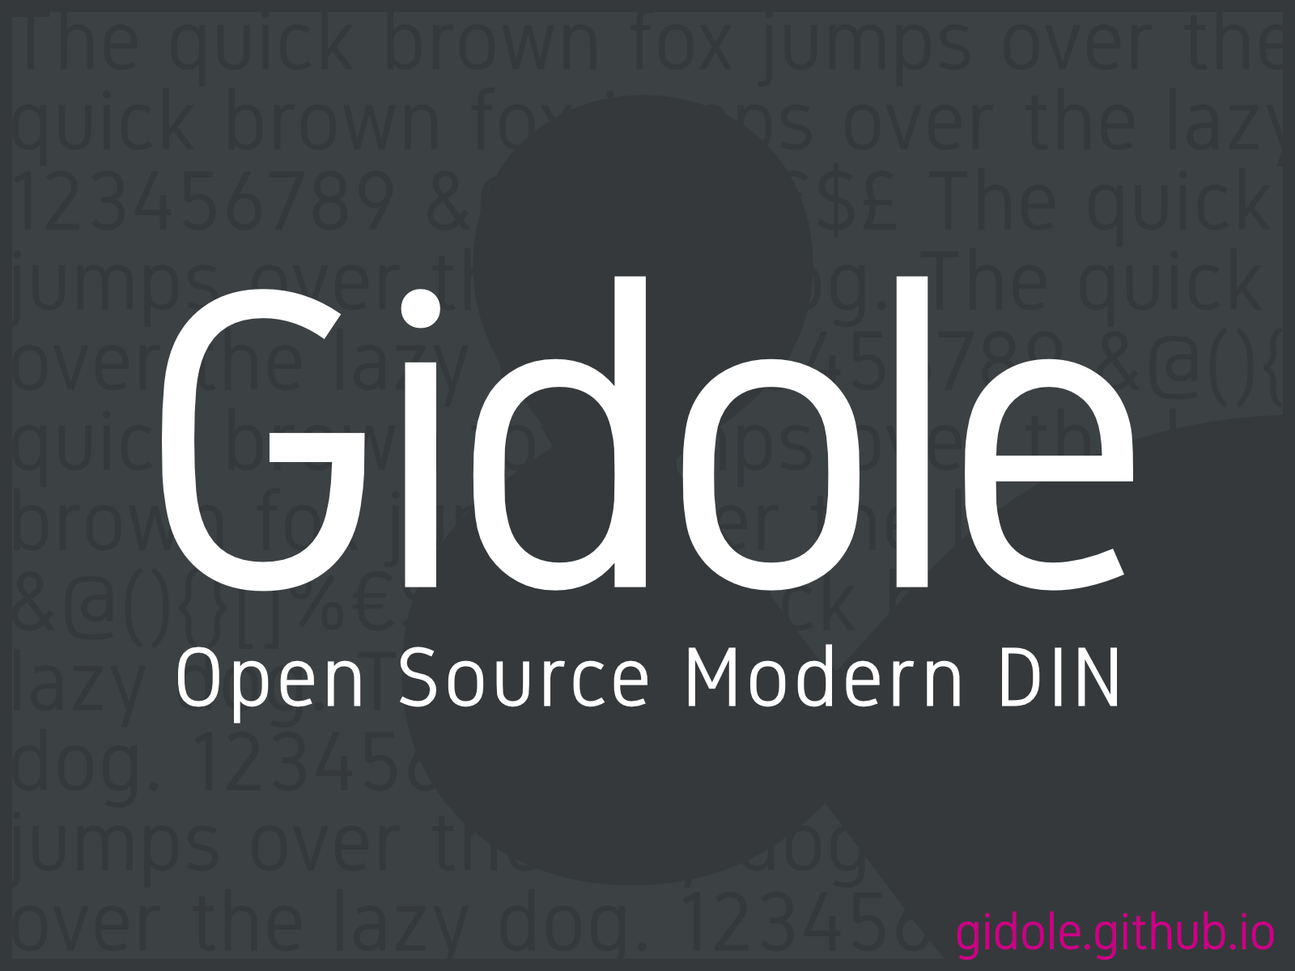
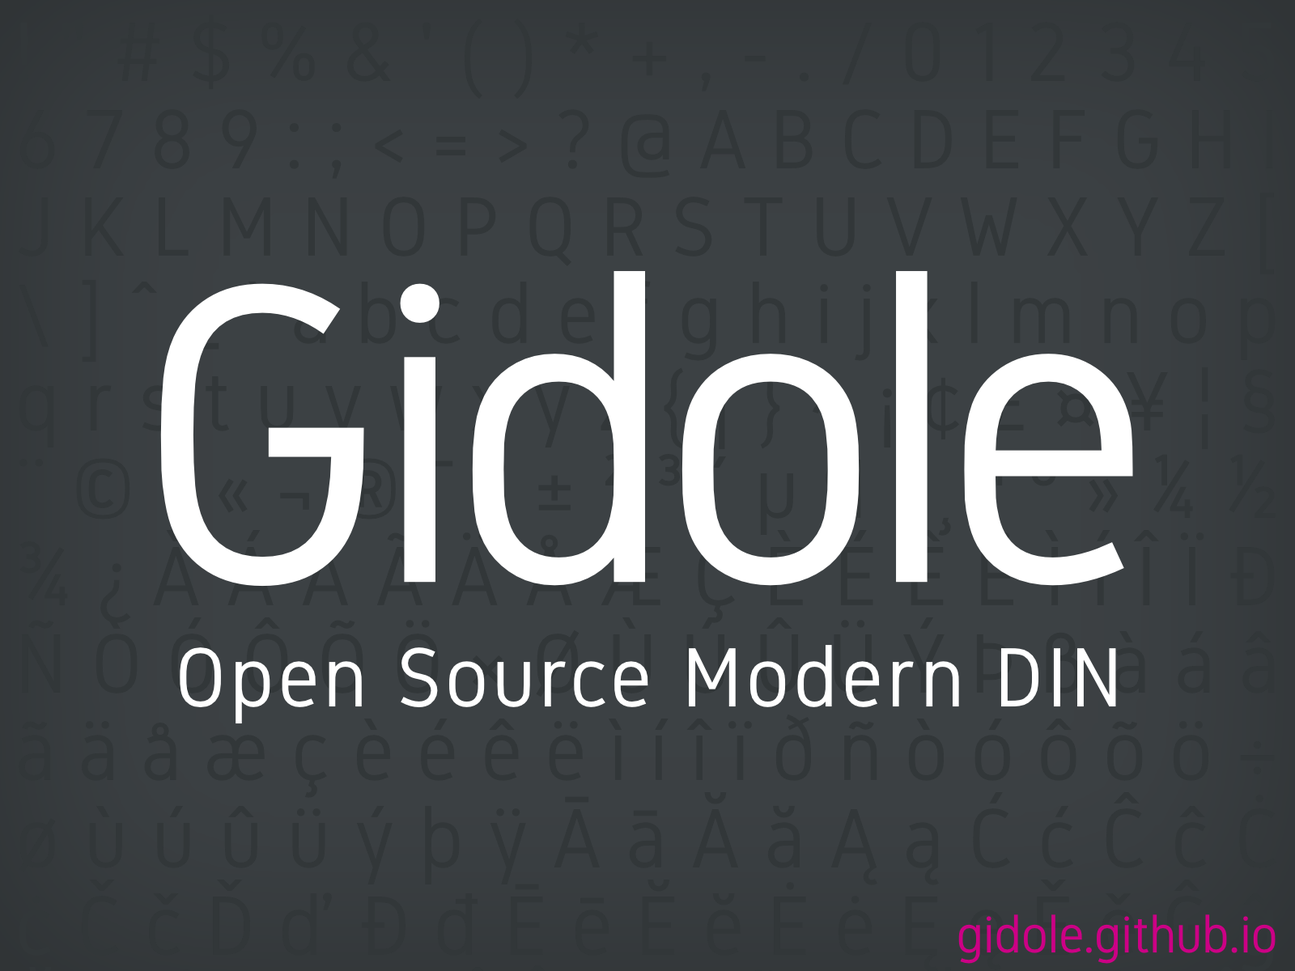
link to pdf, less pink

diff --git a/css/main.min.css b/css/main.min.css
@@ -1,1 +1,1 @@
-html{font-family:sans-serif;-ms-text-size-adjust:100%;-webkit-text-size-adjust:100%}body{margin:0}article,aside,details,figcaption,figure,footer,header,hgroup,main,menu,nav,section,summary{display:block}audio,canvas,progress,video{display:inline-block;vertical-align:baseline}audio:not([controls]){display:none;height:0}[hidden],template{display:none}a{background-color:transparent}a:active,a:hover{outline:0}abbr[title]{border-bottom:1px dotted}b,strong{font-weight:700}dfn{font-style:italic}h1{font-size:2em;margin:.67em 0}mark{background:#ff0;color:#000}small{font-size:80%}sub,sup{font-size:75%;line-height:0;position:relative;vertical-align:baseline}sup{top:-.5em}sub{bottom:-.25em}img{border:0}svg:not(:root){overflow:hidden}figure{margin:1em 40px}hr{box-sizing:content-box;height:0}pre{overflow:auto}code,kbd,pre,samp{font-family:monospace,monospace;font-size:1em}button,input,optgroup,select,textarea{color:inherit;font:inherit;margin:0}button{overflow:visible}button,select{text-transform:none}fieldset{border:1px solid silver;margin:0 2px;padding:.35em .625em .75em}legend{border:0;padding:0}textarea{overflow:auto}optgroup{font-weight:700}table{border-collapse:collapse;border-spacing:0}td,th{padding:0}audio,canvas,iframe,img,svg,video{vertical-align:middle}h1,h2,h3,h4,h5,h6{font-weight:400}::-moz-selection{background:hsl(321,100%,40%);text-shadow:none}::selection{background:hsl(321,100%,40%);text-shadow:none}.inverted ::-moz-selection{background:hsl(321,100%,70%);color:black}.inverted ::selection{background:hsl(321,100%,70%);color:black}.browserupgrade{margin:0;background:red;color:white;padding:1em;width:100%;text-align:center;display:block;pointer-events:all;box-sizing:border-box}::-webkit-scrollbar{display:none}@font-face{font-family:'gidole2regular';src:url('/fonts/Gidole2-Regular.woff2') format('woff2'),url('/fonts/Gidole2-Regular.woff') format('woff'),url('/fonts/Gidole2-Regular.ttf') format('truetype');font-weight:normal;font-style:normal}@font-face{font-family:'gidolemono';src:url('/fonts/Gidole-Mono.woff2') format('woff2'),url('/fonts/Gidole-Mono.woff') format('woff'),url('/fonts/Gidole-Mono.ttf') format('truetype');font-weight:normal;font-style:normal}html{font-family:'gidole2regular';color:white;background-color:hsl(201,6%,25%);font-size:100%}.inverted,.inverted a{color:hsl(201,6%,25%);letter-spacing:.02em}.inverted h2{letter-spacing:-0.03em}svg{fill:white}body{width:100%;font-size:5.4vw;line-height:1.5em;letter-spacing:.03em;height:5000px;pointer-events:none}h1{font-size:6.5em;margin:.4em 0 .2em;animation:fadein;animation-duration:1s}h2{font-size:2.62em;margin-bottom:-0.1em;letter-spacing:-0.02em;margin-left:-0.05em;line-height:1em;margin-top:.2em}nav,body>div{opacity:0;filter:alpha(opacity=0);position:fixed;top:0;bottom:0;left:0;right:0;display:-webkit-box;display:-webkit-flex;display:-ms-flexbox;display:flex;-webkit-box-align:center;-webkit-align-items:center;-ms-flex-align:center;align-items:center;-webkit-align-content:center;-ms-flex-line-pack:center;align-content:center;z-index:100}.behind{z-index:5}.farbehind{z-index:1}.forceforward,.ff{-webkit-transform:translateZ(900px);transform:translateZ(900px);-webkit-transform-style:preserve-3d;transform-style:preserve-3d}div[ffff="1"]{z-index:100}div[fff="1"]{z-index:50}.fff,div[fff="2"]{-webkit-transform:translateZ(950px);transform:translateZ(950px);-webkit-transform-style:preserve-3d;transform-style:preserve-3d}.ffff{-webkit-transform:translateZ(1000px);transform:translateZ(1000px);-webkit-transform-style:preserve-3d;transform-style:preserve-3d}.furtherbehind{-webkit-transform:translateZ(-1000px);transform:translateZ(-1000px);-webkit-transform-style:preserve-3d;transform-style:preserve-3d}.furtherbehind{z-index:1}.nowrap{white-space:nowrap}a{color:white;text-decoration:none}a,#shareTitle{background:-webkit-linear-gradient(top,hsla(321,100%,40%,0) 74.9%,hsl(321,100%,40%) 75%,hsl(321,100%,40%) 88%,hsla(321,100%,40%,0) 88.1%);background:linear-gradient(to bottom,hsla(321,100%,40%,0) 74.9%,hsl(321,100%,40%) 75%,hsl(321,100%,40%) 88%,hsla(321,100%,40%,0) 88.1%);-webkit-transition:background .2s ease;transition:background .2s ease}a:hover,#shareTitle:hover{background:-webkit-linear-gradient(top,hsla(321,100%,40%,0) 6.9%,hsl(321,100%,40%) 7%,hsl(321,100%,40%) 88%,hsla(321,100%,40%,0) 88.1%);background:linear-gradient(to bottom,hsla(321,100%,40%,0) 6.9%,hsl(321,100%,40%) 7%,hsl(321,100%,40%) 88%,hsla(321,100%,40%,0) 88.1%)}.inverted a,.scrollToLink{background:-webkit-linear-gradient(top,hsla(321,100%,40%,0) 74.9%,hsl(321,100%,70%) 75%,hsl(321,100%,70%) 88%,hsla(321,100%,40%,0) 88.1%);background:linear-gradient(to bottom,hsla(321,100%,40%,0) 74.9%,hsl(321,100%,70%) 75%,hsl(321,100%,70%) 88%,hsla(321,100%,40%,0) 88.1%);-webkit-transition:background .2s ease;transition:background .2s ease}.inverted a:hover,.scrollToLink:hover{background:-webkit-linear-gradient(top,hsla(321,100%,40%,0) 6.9%,hsl(321,100%,70%) 7%,hsl(321,100%,70%) 88%,hsla(321,100%,40%,0) 88.1%);background:linear-gradient(to bottom,hsla(321,100%,40%,0) 6.9%,hsl(321,100%,70%) 7%,hsl(321,100%,70%) 88%,hsla(321,100%,40%,0) 88.1%)}.spaced{letter-spacing:.2em;margin-right:-.2em}.wrap{width:100%;max-width:1280px;max-width:80rem;margin:0 auto;padding:0 10%;box-sizing:border-box}svg{width:100%;margin:0 auto}#uno{-webkit-box-orient:vertical;-webkit-box-direction:normal;-webkit-flex-direction:column;-ms-flex-direction:column;flex-direction:column;-webkit-box-pack:center;-webkit-justify-content:center;-ms-flex-pack:center;justify-content:center;text-align:center;padding:0 40px;box-sizing:border-box}#navibuttons{opacity:1;-webkit-box-align:flex-end;-webkit-align-items:flex-end;-ms-flex-align:flex-end;align-items:flex-end;pointer-events:none}#navibuttons>div{margin:0 auto;background-color:hsl(201,6%,30%);box-shadow:0 0 4vw rgba(0,0,0,0.2);border-top-left-radius:.8em;border-top-right-radius:.8em;padding:0 .5em}#navibuttons span{display:inline-block;pointer-events:all;cursor:pointer;padding:0 .1em}#navibuttons span:active{color:hsl(321,100%,40%)}.counter{opacity:1;filter:alpha(opacity=100);font-size:.62em;line-height:1.1em;pointer-events:none}.counter>div{position:absolute;-webkit-transform:translateZ(1002px);transform:translateZ(1002px);-webkit-transform-style:preserve-3d;transform-style:preserve-3d;bottom:20px;right:2.45em;z-index:90}.counter .total{right:1em}.counter .eight{right:2.44em}.counter .seven{right:2.38em}.counter .nine{right:2.40em}nav a{margin:0 auto}.skrollable-between #shareTitle,.skrollable-between .scrollToLink{cursor:pointer}.skrollable-between{pointer-events:all}nav{-webkit-box-orient:horizontal;-webkit-box-direction:normal;-webkit-flex-direction:row;-ms-flex-direction:row;flex-direction:row;-webkit-justify-content:space-around;-ms-flex-pack:distribute;justify-content:space-around}nav>div{text-align:center;position:relative}#shareSmile{position:absolute;left:0;right:0;-webkit-transform:rotate(90deg) translateX(0.05em);-ms-transform:rotate(90deg) translateX(0.05em);transform:rotate(90deg) translateX(0.05em);-webkit-transition:all 1s ease;transition:all 1s ease}#shareSmile.invisible{-webkit-transform:rotate(0) translateX(0.05em);-ms-transform:rotate(0) translateX(0.05em);transform:rotate(0) translateX(0.05em)}.links{position:absolute;text-align:right;top:0;right:0;-webkit-transform:translate3d(0,1em,0);transform:translate3d(0,1em,0);-webkit-transition:.3s ease;transition:.3s ease;opacity:0;filter:alpha(opacity=0);visibility:hidden}.visible .links{-webkit-transform:translate3d(0,1.5em,0);transform:translate3d(0,1.5em,0);opacity:1;filter:alpha(opacity=100);visibility:visible}#mapintro p{z-index:10}#world{font-family:'gidolemono';font-size:.5em;line-height:.9em;height:500%;top:-200%;overflow:hidden;left:-10000px;right:-10000px;color:hsl(201,6%,20%)}#worldcenter{position:relative;margin:0 auto;white-space:nowrap}#dot{color:hsl(321,100%,40%)}#duo{height:100%}.goo path,.gooload path{fill:hsla(321,100%,40%,0);stroke:hsla(321,100%,40%,0.3);stroke-width:6}.gooload path{stroke-width:7;stroke:hsla(321,100%,40%,0.75)}#ampstroke path{fill:none;stroke-width:2em;stroke:white}#stroke{z-index:3}#fivehundred{z-index:4}#ampfill path{fill:white;stroke-width:2em;stroke:white}#starwars{display:block;color:hsla(201,6%,15%,0.1);overflow:hidden;-webkit-transform:perspective(300px) rotateX(25deg);transform:perspective(300px) rotateX(25deg);z-index:1;left:-150%;right:-150%;text-align:center;padding:0;font-size:2.5vw}#starwars:after{position:fixed;content:' ';left:0;right:0;top:0;bottom:0;background:-moz-linear-gradient(top,rgba(255,255,255,1) 0,rgba(255,255,255,0) 100%);background:-webkit-gradient(linear,left top,left bottom,color-stop(0,rgba(255,255,255,1)),color-stop(100%,rgba(255,255,255,0)));background:-webkit-linear-gradient(top,rgba(255,255,255,1) 0,rgba(255,255,255,0) 100%);background:-o-linear-gradient(top,rgba(255,255,255,1) 0,rgba(255,255,255,0) 100%);background:-ms-linear-gradient(top,rgba(255,255,255,1) 0,rgba(255,255,255,0) 100%);background:linear-gradient(to bottom,rgba(255,255,255,1) 0,rgba(255,255,255,0) 100%);filter:progid:DXImageTransform.Microsoft.gradient(startColorstr='#ffffff',endColorstr='#00ffffff',GradientType=0);pointer-events:none}#starwarscontent>div{z-index:1;line-height:.9em}#starwars .line0{font-size:8em}#starwars .line1{font-size:6.1em}#starwars .line2{font-size:4.2em}#starwars .line3{font-size:5em}#starwars .line4{font-size:9.6em}#starwars .line5{font-size:4.5em}#starwars .line6{font-size:8.5em}#starwars .line7{font-size:5.67em}#starwars .line8{font-size:3.38em}#starwars .line9{font-size:5.5em}#whitefade{background-color:white}#loadfade{transition-duration:.5s;transition-delay:.5s;-webkit-transition-timing-function:cubic-bezier(1.000,0.000,1.000,1.000);-moz-transition-timing-function:cubic-bezier(1.000,0.000,1.000,1.000);-o-transition-timing-function:cubic-bezier(1.000,0.000,1.000,1.000);transition-timing-function:cubic-bezier(1.000,0.000,1.000,1.000);opacity:1;pointer-events:none;background-color:rgba(255,255,255,1);-webkit-box-shadow:inset 0 0 20% 0 rgba(0,0,0,0);-moz-box-shadow:inset 0 0 20% 0 rgba(0,0,0,0);box-shadow:inset 0 0 20% 0 rgba(0,0,0,0)}#loadfade.loaded{background-color:rgba(255,255,255,0);-webkit-box-shadow:inset 0 0 20vw 0 rgba(0,0,0,0.1);-moz-box-shadow:inset 0 0 20vw 0 rgba(0,0,0,0.1);box-shadow:inset 0 0 20vw 0 rgba(0,0,0,0.1)}#disc{bottom:50%;font-size:.6em;color:hsla(0,0,100%,0.3);line-height:1.5em}@-webkit-keyframes fadein{from{opacity:0;filter:alpha(opacity=0)}to{opacity:1;filter:alpha(opacity=100)}}@keyframes fadein{from{opacity:0;filter:alpha(opacity=0)}to{opacity:1;filter:alpha(opacity=100)}}@-webkit-keyframes skubin{from{margin-bottom:-2em}to{margin-bottom:0}}@keyframes skubin{from{margin-bottom:-2em}to{margin-bottom:0}}.hidden{display:none!important;visibility:hidden}.visuallyhidden{border:0;clip:rect(0 0 0 0);height:1px;margin:-1px;overflow:hidden;padding:0;position:absolute;width:1px}.invisible{visibility:hidden}@media only screen and (min-width:50rem){body{font-size:2.6em}#kbhint{visibility:visible!important}}@media print{*,*:before,*:after{background:transparent!important;color:#000!important;box-shadow:none!important;text-shadow:none!important}a,a:visited{text-decoration:underline}a[href]:after{content:" (" attr(href) ")"}abbr[title]:after{content:" (" attr(title) ")"}a[href^="#"]:after,a[href^="javascript:"]:after{content:""}pre,blockquote{border:1px solid #999;page-break-inside:avoid}thead{display:table-header-group}tr,img{page-break-inside:avoid}img{max-width:100%!important}p,h2,h3{orphans:3;widows:3}h2,h3{page-break-after:avoid}}
+html{font-family:sans-serif;-ms-text-size-adjust:100%;-webkit-text-size-adjust:100%}body{margin:0}article,aside,details,figcaption,figure,footer,header,hgroup,main,menu,nav,section,summary{display:block}audio,canvas,progress,video{display:inline-block;vertical-align:baseline}audio:not([controls]){display:none;height:0}[hidden],template{display:none}a{background-color:transparent}a:active,a:hover{outline:0}abbr[title]{border-bottom:1px dotted}b,strong{font-weight:700}dfn{font-style:italic}h1{font-size:2em;margin:.67em 0}mark{background:#ff0;color:#000}small{font-size:80%}sub,sup{font-size:75%;line-height:0;position:relative;vertical-align:baseline}sup{top:-.5em}sub{bottom:-.25em}img{border:0}svg:not(:root){overflow:hidden}figure{margin:1em 40px}hr{box-sizing:content-box;height:0}pre{overflow:auto}code,kbd,pre,samp{font-family:monospace,monospace;font-size:1em}button,input,optgroup,select,textarea{color:inherit;font:inherit;margin:0}button{overflow:visible}button,select{text-transform:none}fieldset{border:1px solid silver;margin:0 2px;padding:.35em .625em .75em}legend{border:0;padding:0}textarea{overflow:auto}optgroup{font-weight:700}table{border-collapse:collapse;border-spacing:0}td,th{padding:0}audio,canvas,iframe,img,svg,video{vertical-align:middle}h1,h2,h3,h4,h5,h6{font-weight:400}::-moz-selection{background:hsl(321,100%,40%);text-shadow:none}::selection{background:hsl(321,100%,40%);text-shadow:none}.inverted ::-moz-selection{background:hsl(321,100%,70%);color:black}.inverted ::selection{background:hsl(321,100%,70%);color:black}.browserupgrade{margin:0;background:red;color:white;padding:1em;width:100%;text-align:center;display:block;pointer-events:all;box-sizing:border-box}::-webkit-scrollbar{display:none}@font-face{font-family:'gidole2regular';src:url('/fonts/Gidole2-Regular.woff2') format('woff2'),url('/fonts/Gidole2-Regular.woff') format('woff'),url('/fonts/Gidole2-Regular.ttf') format('truetype');font-weight:normal;font-style:normal}@font-face{font-family:'gidolemono';src:url('/fonts/Gidole-Mono.woff2') format('woff2'),url('/fonts/Gidole-Mono.woff') format('woff'),url('/fonts/Gidole-Mono.ttf') format('truetype');font-weight:normal;font-style:normal}html{font-family:'gidole2regular';color:white;background-color:hsl(201,6%,25%);font-size:100%}.inverted,.inverted a{color:hsl(201,6%,25%);letter-spacing:.02em}.inverted h2{letter-spacing:-0.03em}svg{fill:white}body{width:100%;font-size:5.4vw;line-height:1.5em;letter-spacing:.03em;height:5000px;pointer-events:none}h1{font-size:6.5em;margin:.4em 0 .2em;animation:fadein;animation-duration:1s}h2{font-size:2.62em;margin-bottom:-0.1em;letter-spacing:-0.02em;margin-left:-0.05em;line-height:1em;margin-top:.2em}nav,body>div{opacity:0;filter:alpha(opacity=0);position:fixed;top:0;bottom:0;left:0;right:0;display:-webkit-box;display:-webkit-flex;display:-ms-flexbox;display:flex;-webkit-box-align:center;-webkit-align-items:center;-ms-flex-align:center;align-items:center;-webkit-align-content:center;-ms-flex-line-pack:center;align-content:center;z-index:100}.behind{z-index:5}.farbehind{z-index:1}.forceforward,.ff{-webkit-transform:translateZ(900px);transform:translateZ(900px);-webkit-transform-style:preserve-3d;transform-style:preserve-3d}div[ffff="1"]{z-index:100}div[fff="1"]{z-index:50}.fff,div[fff="2"]{-webkit-transform:translateZ(950px);transform:translateZ(950px);-webkit-transform-style:preserve-3d;transform-style:preserve-3d}.ffff{-webkit-transform:translateZ(1000px);transform:translateZ(1000px);-webkit-transform-style:preserve-3d;transform-style:preserve-3d}.furtherbehind{-webkit-transform:translateZ(-1000px);transform:translateZ(-1000px);-webkit-transform-style:preserve-3d;transform-style:preserve-3d}.furtherbehind{z-index:1}.nowrap{white-space:nowrap}a{color:white;text-decoration:none}a,#shareTitle{background:-webkit-linear-gradient(top,hsla(321,100%,40%,0) 74.9%,hsl(321,100%,40%) 75%,hsl(321,100%,40%) 88%,hsla(321,100%,40%,0) 88.1%);background:linear-gradient(to bottom,hsla(321,100%,40%,0) 74.9%,hsl(321,100%,40%) 75%,hsl(321,100%,40%) 88%,hsla(321,100%,40%,0) 88.1%);-webkit-transition:background .2s ease;transition:background .2s ease}a:hover,#shareTitle:hover{background:-webkit-linear-gradient(top,hsla(321,100%,40%,0) 6.9%,hsl(321,100%,40%) 7%,hsl(321,100%,40%) 88%,hsla(321,100%,40%,0) 88.1%);background:linear-gradient(to bottom,hsla(321,100%,40%,0) 6.9%,hsl(321,100%,40%) 7%,hsl(321,100%,40%) 88%,hsla(321,100%,40%,0) 88.1%)}.inverted a,.scrollToLink{background:-webkit-linear-gradient(top,hsla(321,100%,40%,0) 74.9%,hsl(321,100%,70%) 75%,hsl(321,100%,70%) 88%,hsla(321,100%,40%,0) 88.1%);background:linear-gradient(to bottom,hsla(321,100%,40%,0) 74.9%,hsl(321,100%,70%) 75%,hsl(321,100%,70%) 88%,hsla(321,100%,40%,0) 88.1%);-webkit-transition:background .2s ease;transition:background .2s ease}.inverted a:hover,.scrollToLink:hover{background:-webkit-linear-gradient(top,hsla(321,100%,40%,0) 6.9%,hsl(321,100%,70%) 7%,hsl(321,100%,70%) 88%,hsla(321,100%,40%,0) 88.1%);background:linear-gradient(to bottom,hsla(321,100%,40%,0) 6.9%,hsl(321,100%,70%) 7%,hsl(321,100%,70%) 88%,hsla(321,100%,40%,0) 88.1%)}.spaced{letter-spacing:.2em;margin-right:-.2em}.wrap{width:100%;max-width:1280px;max-width:80rem;margin:0 auto;padding:0 10%;box-sizing:border-box}svg{width:100%;margin:0 auto}#uno{-webkit-box-orient:vertical;-webkit-box-direction:normal;-webkit-flex-direction:column;-ms-flex-direction:column;flex-direction:column;-webkit-box-pack:center;-webkit-justify-content:center;-ms-flex-pack:center;justify-content:center;text-align:center;padding:0 40px;box-sizing:border-box}#navibuttons{opacity:1;-webkit-box-align:flex-end;-webkit-align-items:flex-end;-ms-flex-align:flex-end;align-items:flex-end;pointer-events:none}#navibuttons>div{margin:0 auto;background-color:hsl(201,6%,30%);box-shadow:0 0 4vw rgba(0,0,0,0.2);border-top-left-radius:.8em;border-top-right-radius:.8em;padding:0 .5em}#navibuttons span{display:inline-block;pointer-events:all;cursor:pointer;padding:0 .1em}#navibuttons span:active{color:hsl(321,100%,40%)}.counter{opacity:1;filter:alpha(opacity=100);font-size:.62em;line-height:1.1em;pointer-events:none}.counter>div{position:absolute;-webkit-transform:translateZ(1002px);transform:translateZ(1002px);-webkit-transform-style:preserve-3d;transform-style:preserve-3d;bottom:20px;right:2.45em;z-index:90}.counter .total{right:1em}.counter .eight{right:2.44em}.counter .seven{right:2.38em}.counter .nine{right:2.40em}nav a{margin:0 auto}.skrollable-between #shareTitle,.skrollable-between .scrollToLink{cursor:pointer}.skrollable-between{pointer-events:all}nav{-webkit-box-orient:horizontal;-webkit-box-direction:normal;-webkit-flex-direction:row;-ms-flex-direction:row;flex-direction:row;-webkit-justify-content:space-around;-ms-flex-pack:distribute;justify-content:space-around}nav>div{text-align:center;position:relative}#pdf{display:none}}#shareSmile{position:absolute;left:0;right:0;-webkit-transform:rotate(90deg) translateX(0.05em);-ms-transform:rotate(90deg) translateX(0.05em);transform:rotate(90deg) translateX(0.05em);-webkit-transition:all 1s ease;transition:all 1s ease}#shareSmile.invisible{-webkit-transform:rotate(0) translateX(0.05em);-ms-transform:rotate(0) translateX(0.05em);transform:rotate(0) translateX(0.05em)}.links{position:absolute;text-align:right;top:0;right:0;-webkit-transform:translate3d(0,1em,0);transform:translate3d(0,1em,0);-webkit-transition:.3s ease;transition:.3s ease;opacity:0;filter:alpha(opacity=0);visibility:hidden}.visible .links{-webkit-transform:translate3d(0,1.5em,0);transform:translate3d(0,1.5em,0);opacity:1;filter:alpha(opacity=100);visibility:visible}#mapintro p{z-index:10}#world{font-family:'gidolemono';font-size:.5em;line-height:.9em;height:500%;top:-200%;overflow:hidden;left:-10000px;right:-10000px;color:hsl(201,6%,20%)}#worldcenter{position:relative;margin:0 auto;white-space:nowrap}#dot{color:hsla(201,6%,50%,0.5)}#duo{height:100%}.goo path,.gooload path{fill:none;stroke:hsla(201,6%,50%,0.5);stroke-width:6}.gooload path{stroke-width:7;stroke:hsla(201,6%,50%,0.9)}#ampstroke path{fill:none;stroke-width:2em;stroke:white}#stroke{z-index:3}#fivehundred{z-index:4}#ampfill path{fill:white;stroke-width:2em;stroke:white}#starwars{display:block;color:hsla(201,6%,15%,0.1);overflow:hidden;-webkit-transform:perspective(300px) rotateX(25deg);transform:perspective(300px) rotateX(25deg);z-index:1;left:-150%;right:-150%;text-align:center;padding:0;font-size:2.5vw}#starwars:after{position:fixed;content:' ';left:0;right:0;top:0;bottom:0;background:-moz-linear-gradient(top,rgba(255,255,255,1) 0,rgba(255,255,255,0) 100%);background:-webkit-gradient(linear,left top,left bottom,color-stop(0,rgba(255,255,255,1)),color-stop(100%,rgba(255,255,255,0)));background:-webkit-linear-gradient(top,rgba(255,255,255,1) 0,rgba(255,255,255,0) 100%);background:-o-linear-gradient(top,rgba(255,255,255,1) 0,rgba(255,255,255,0) 100%);background:-ms-linear-gradient(top,rgba(255,255,255,1) 0,rgba(255,255,255,0) 100%);background:linear-gradient(to bottom,rgba(255,255,255,1) 0,rgba(255,255,255,0) 100%);filter:progid:DXImageTransform.Microsoft.gradient(startColorstr='#ffffff',endColorstr='#00ffffff',GradientType=0);pointer-events:none}#starwarscontent>div{z-index:1;line-height:.9em}#starwars .line0{font-size:8em}#starwars .line1{font-size:6.1em}#starwars .line2{font-size:4.2em}#starwars .line3{font-size:5em}#starwars .line4{font-size:9.6em}#starwars .line5{font-size:4.5em}#starwars .line6{font-size:8.5em}#starwars .line7{font-size:5.67em}#starwars .line8{font-size:3.38em}#starwars .line9{font-size:5.5em}#whitefade{background-color:white}#loadfade{transition-duration:.5s;transition-delay:.5s;-webkit-transition-timing-function:cubic-bezier(1.000,0.000,1.000,1.000);-moz-transition-timing-function:cubic-bezier(1.000,0.000,1.000,1.000);-o-transition-timing-function:cubic-bezier(1.000,0.000,1.000,1.000);transition-timing-function:cubic-bezier(1.000,0.000,1.000,1.000);opacity:1;pointer-events:none;background-color:rgba(255,255,255,1);-webkit-box-shadow:inset 0 0 20% 0 rgba(0,0,0,0);-moz-box-shadow:inset 0 0 20% 0 rgba(0,0,0,0);box-shadow:inset 0 0 20% 0 rgba(0,0,0,0)}#loadfade.loaded{background-color:rgba(255,255,255,0);-webkit-box-shadow:inset 0 0 20vw 0 rgba(0,0,0,0.1);-moz-box-shadow:inset 0 0 20vw 0 rgba(0,0,0,0.1);box-shadow:inset 0 0 20vw 0 rgba(0,0,0,0.1)}#disc{bottom:50%;font-size:.6em;color:hsla(0,0,100%,0.3);line-height:1.5em}@-webkit-keyframes fadein{from{opacity:0;filter:alpha(opacity=0)}to{opacity:1;filter:alpha(opacity=100)}}@keyframes fadein{from{opacity:0;filter:alpha(opacity=0)}to{opacity:1;filter:alpha(opacity=100)}}@-webkit-keyframes skubin{from{margin-bottom:-2em}to{margin-bottom:0}}@keyframes skubin{from{margin-bottom:-2em}to{margin-bottom:0}}.hidden{display:none!important;visibility:hidden}.visuallyhidden{border:0;clip:rect(0 0 0 0);height:1px;margin:-1px;overflow:hidden;padding:0;position:absolute;width:1px}.invisible{visibility:hidden}@media only screen and (min-width:50rem){#pdf{display:block}body{font-size:2.6em}#kbhint{visibility:visible!important}}@media print{*,*:before,*:after{background:transparent!important;color:#000!important;box-shadow:none!important;text-shadow:none!important}a,a:visited{text-decoration:underline}a[href]:after{content:" (" attr(href) ")"}abbr[title]:after{content:" (" attr(title) ")"}a[href^="#"]:after,a[href^="javascript:"]:after{content:""}pre,blockquote{border:1px solid #999;page-break-inside:avoid}thead{display:table-header-group}tr,img{page-break-inside:avoid}img{max-width:100%!important}p,h2,h3{orphans:3;widows:3}h2,h3{page-break-after:avoid}}

diff --git a/index.html b/index.html
@@ -69,12 +69,10 @@
     </div> <!-- UNO -->
 
 <!-- nav -->
-    <div class="wrap" id="disc" data-300="opacity[cubic]:0;" data-600="opacity[cubic]:1;" data-900="opacity[cubic]:0">
-      <p>Please note that this displays the upcomming revision of the typeface still being fine tuned. Follow @andreaslarsendk for updates and/or download the "old" version.</p>
-    </div>
     <nav class="wrap" data-300="opacity[cubic]:0;" data-600="opacity[cubic]:1;" data-900="opacity[cubic]:0">
         <div id="get"><a href="https://github.com/gidole/Gidole-Typefaces/blob/master/gidole.zip?raw=true">Download</a></div>
         <div id="github"><a href="http://github.com/gidole/Gidole-Typefaces" target="_blank">Github</a></div>
+      <div id="pdf"><a href="https://github.com/gidole/Gidole-Typefaces/blob/master/Resources/GidoleFont/ReadMe+TestPrint.pdf?raw=true" target="_blank">pdf</a></div>
         <div id="share"><span id="shareTitle">Share</span><span id="shareSmile" class="invisible">:&#8198;)</span>
           <div class="links">
             <a href="https://twitter.com/intent/tweet?url=http%3A%2F%2Fgidole.github.io%2F&text=Gidole%20%26%20Gidolinya%20Free%20Typefaces&original_referer=&via=andreaslarsendk&hashtags=gidole" target="_blank">Twitter</a><br>
@@ -272,7 +270,7 @@
     <div class="wrap forceforward inverted" data-7200="opacity[cubic]:0;" data-7600="opacity[cubic]:1">
       <div>
         <h2>The End</h2>
-        <p>Thanks for stopping by. Help me by reporting issues and ideas for <a href="http://github.com/gidole/Gidole-Typefaces/issues" target="_blank">font</a>/<a href="https://github.com/gidole/gidole.github.io/issues" target="_blank">website</a> and by spreading the word. <a href="https://twitter.com/intent/follow?screen_name=andreaslarsendk" target="_blank">Follow</a> me for updates.</p>
+        <p>Thanks for stopping by. Help me by reporting issues and ideas for <a href="http://github.com/gidole/Gidole-Typefaces/issues" target="_blank">font</a>/<a href="https://github.com/gidole/gidole.github.io/issues" target="_blank">website</a> and by spreading the word. <a href="https://twitter.com/intent/follow?screen_name=andreaslarsendk" target="_blank">Follow</a> me for updates. Please don't hesitate to contact me:)</p>
       </div>
     </div>
 

diff --git a/css/main.css b/css/main.css
@@ -270,6 +270,10 @@ nav > div {
   text-align: center;
   position: relative;
 }
+#pdf {
+  display: none;
+}
+}
 #shareSmile {
   position: absolute;
   left: 0;
@@ -325,19 +329,19 @@ nav > div {
   white-space: nowrap;
 }
 #dot {
-  color:hsl(321, 100%, 40%);
+  color:hsla(201, 6%, 50%, 0.5);
 }
 #duo {
   height: 100%;
 }
 .goo path, .gooload path {
-  fill: hsla(321, 100%, 40%, 0);
-  stroke: hsla(321, 100%, 40%, 0.3);
+  fill: none;
+  stroke: hsla(201, 6%, 50%, 0.5);
   stroke-width: 6;
 }
 .gooload path {
   stroke-width: 7;
-  stroke: hsla(321, 100%, 40%, 0.75);
+  stroke: hsla(201, 6%, 50%, 0.9);
 }
 #ampstroke path {
   fill: none;
@@ -489,6 +493,7 @@ nav > div {
    Media Queries
    ================================================== */
 @media only screen and (min-width: 50rem) {
+  #pdf {display: block;}
     body {  font-size: 2.6em }
     #kbhint {  visibility: visible !important }
 }
